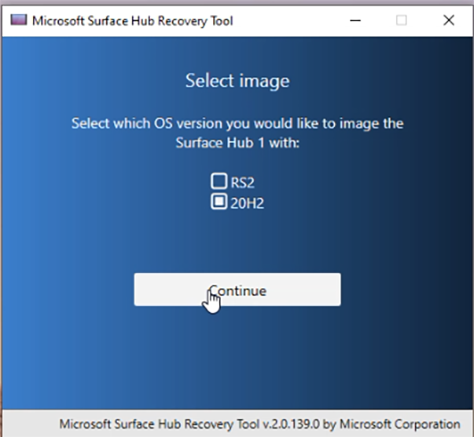
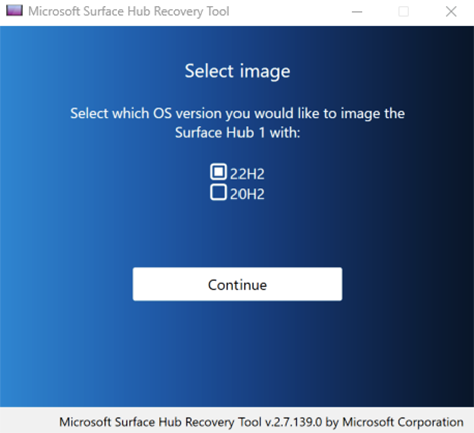
update hub v1 recovery page

diff --git a/surface-hub/surface-hub-recovery-tool.md b/surface-hub/surface-hub-recovery-tool.md
@@ -7,7 +7,7 @@ ms.prod: surface-hub
 author: coveminer
 ms.author: hachidan
 ms.topic: how-to
-ms.date: 02/11/2020
+ms.date: 01/20/2023
 ms.localizationpriority: medium
 ---
 
@@ -72,7 +72,7 @@ Install Surface Hub Recovery Tool on the host PC.
 
     ![Do not let your machine go to sleep guidance.](images/shrt-guidance.png)
 
-4. In the Select image window, click either **RS2** or its successor **20H2**, select **Continue,** and then select **Download image.**
+4. In the Select image window, click either **20H2** or its successor **22H2**, select **Continue,** and then select **Download image.**
 
      ![Recovery Tool Select image.](images/shrt-select-image.png)
     ![Recovery Tool Download image.](images/shrt-download-image.png)
